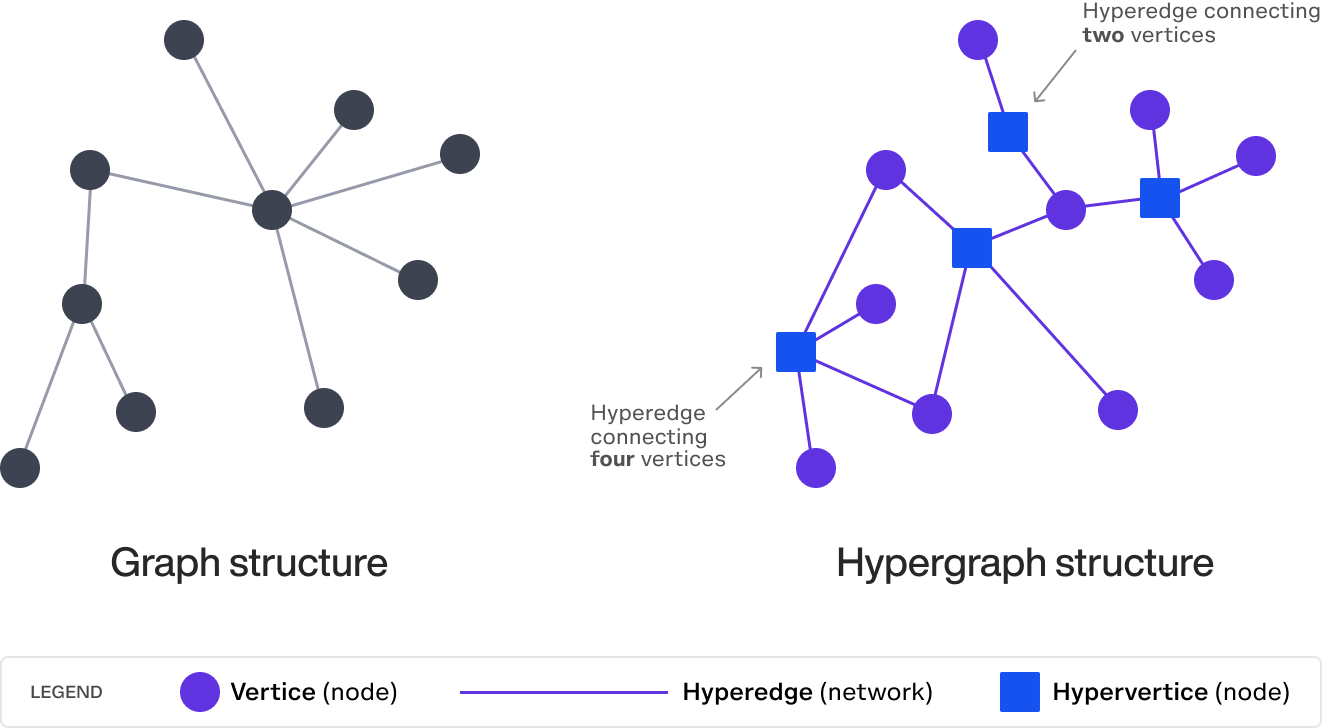
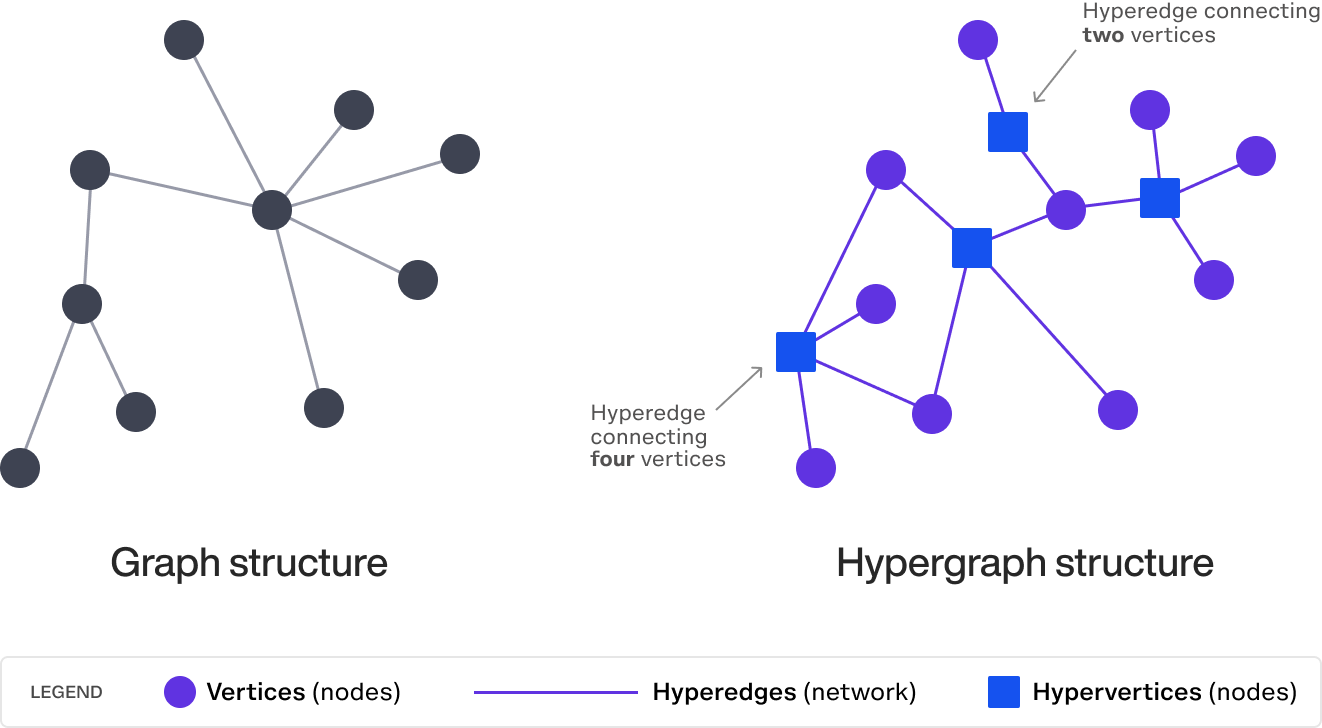
Update DAG Token page

Changed region(s): [[0.7443, 0.9066, 0.9924, 0.9973], [0.1241, 0.9066, 0.3101, 0.9973], [0.4962, 0.9368, 0.7133, 0.967]]

diff --git a/learn/advanced-concepts/03-DAG-Token.md b/learn/advanced-concepts/03-DAG-Token.md
@@ -11,33 +11,33 @@ DAG Layer 1 (L1) is a special case metagraph that validates DAG currency transac
 
 The DAG L1 network is a special case metagraph that validates transactions, runs them through parallel rounds of consensus, and processes them into blocks that are then submitted to the Global L0 network for inclusion in a Global Snapshot. DAG is the native currency of the network.
 
-**What is Constellation's $DAG Token?**
+### What is $DAG ?
 
 Constellation’s [$DAG coin](https://constellationnetwork.io/dag-token) is a next-generation cryptocurrency platform built on a Directed Acyclic Graph (DAG) structure. This hypergraph-based protocol enables Constellation to create a trustless, decentralized network of nodes that share data in real time — without the need for mining or other energy-intensive processes. Since its launch in late 2018, the coin has earned rave reviews from blockchain developers and crypto users alike — and its $DAG token is quickly becoming one of the most sought-after assets in the industry.
 
 $DAG works on an exclusive dApp, binding all components of the Hypergraph for enhanced scalability and feeless peer-to-peer transactions. Transactions are validated by node operators and its reward layer maintains the network with millions of monthly transactions. $DAG's microservice framework allows for advanced data connections to be made in a secure manner.
 
-## **Technology Behind the Coin: A Look Into the Hypergraph-based Protocol That Drives the Coin.**
+## Technology Behind the Coin
 
 At its core, Constellation’s Directed Acyclic Graph Structure (DAG) structure uses nodes to store data and validate transactions. This structure allows for significantly faster processing times than traditional proof-of-work models, as well as improved security due to its distributed architecture — meaning that no single node can control or manipulate the data stored on the chain. DAG-based networks are built to be more flexible and scalable than traditional blockchain networks, meaning they can handle larger amounts of data in shorter times. This is especially useful for applications such as digital identity management, asset tracking, supply chain management, and so on. Furthermore, while many other coins suffer from a lack of scalability due to their consensus mechanisms, Constellation has addressed this issue head on by building its network with a focus on scalability.
 
-## **Who Uses $DAG?**
+## Who Uses $DAG?
 
 As opposed to traditional cryptocurrencies such as Bitcoin and Ethereum, Constellation's $DAG coin offers several benefits that can improve crypto transactions' efficiency and security. The architecture of the system is ideal for:
 
-### **Token Purchasers and Holders:**
+### Token Purchasers and Holders
 
 Individuals that have purchased $DAG, are speculating, trading, or sending $DAG between their wallets, using it as a peer-to-peer currency.
 
-### **Node Validators**
+### Node Validators
 
 These individuals manage nodes and receive $DAG as a reward for participating in Hypergraph and consensus. Consensus is the programmatic means to govern and optimize the network with speed and security. The collection of these nodes is distributed, and forms the Hypergraph.
 
-### **dApp Businesses**
+### dApp Businesses
 
 With Constellation's HGTP protocol, individuals and organizations can create immutable, automated and programmatic businesses and tokens with the Metagraph Token Standard.
 
-## **The Tokenization of Data**
+## The Tokenization of Data
 
 A [$DAG token](https://medium.com/constellationlabs/dag-defined-52cb5c8fc441) represents network bandwidth, enabling transactions over the rate limit as well as the monetization of data streams. $DAG users become "datapreneurs" and can buy and sell data as they see fit.
 
@@ -49,19 +49,19 @@ Within Constellation's network, the $DAG token plays a few other roles:
 
 The tokenization of data could one day allow data packages to be traded and sold like commodities.
 
-## **The mission of $DAG Coin: Unlocking the Power of Distributed Ledger Technology**
+## The mission of $DAG
 
 By leveraging a unique combination of nodes and rewards, $DAG wallet users can unlock the power of the decentralized network and reap the benefits of this cutting-edge technology. The more dApps that launch on the network, the more utility the $DAG token will have, and the more scarce $DAG will become. By holding $DAG, you can participate in the [generative economics of the network](https://www.youtube.com/watch?v=wGfMsrskf3A) and support increased bandwidth in various ways.
 
-### **Validate Data**
+### Validate Data
 
 Stake $DAG to run a node on the Hypergraph network to validate data and transactions and receive validator rewards of $DAG.
 
-### **Secure Network Utility**
+### Secure Network Utility
 
 Staking $DAG on [Lattice](https://constellationnetwork.io/lattice) (powered by Constellation’s HGTP) secures network utility and enables cross-chain liquidity between other ecosystems.
 
-### **Provide Liquidity**
+### Provide Liquidity
 
 Provide liquidity and sufficient bandwidth for other L0 projects running dApps on the network, such as Alkimi Exchange, the first decentralized ad exchange.
 

diff --git a/learn/advanced-concepts/02-DAG-structure.md b/learn/advanced-concepts/02-DAG-structure.md
@@ -1,7 +1,7 @@
 ---
 title: DAG Structure
 sidebar_label: DAG Structure
-hide_table_of_contents: false
+hide_table_of_contents: true
 ---
 <intro-end />
 
@@ -16,4 +16,4 @@ Each node can have more than one parent root which enables significantly more tr
 ![Network Structure](/img/learn/graph-vs-hypergraph.png)
 <br />
 
-Think of a Hypergraph as a graph that allows you to model group relations instead of only binary relations, enabling a graph to be constructed of other graphs. It’s a set of a sets that enables different graphs to be connected together by their relationships to form a greater graph structure. In this Hypergraph structure there is the notion of “Hyper-edges” and “Hyper-vertices” that connect the graphs together, with each hyperedge connecting an arbitrary number of hypervertices (instead of only two in a regular graph). This allows the Constellation Network to weave immutable state data originating from entirely different networks and systems together into one ever-evolving data structure. The Hypergraph can be used to compose complex decentralized application logic, such as multi-network API calls and cross-network exchange of tokenized assets.
+Think of a Hypergraph as a graph that allows you to model group relations instead of only binary relations, enabling a graph to be constructed of other graphs. It’s a set of a sets that enables different graphs to be connected together by their relationships to form a greater graph structure. In this Hypergraph structure there is the notion of “Hyperedges” and “Hypervertices” that connect the graphs together, with each hyperedge connecting an arbitrary number of hypervertices (instead of only two in a regular graph). This allows the Constellation Network to weave immutable state data originating from entirely different networks and systems together into one ever-evolving data structure. The Hypergraph can be used to compose complex decentralized application logic, such as multi-network API calls and cross-network exchange of tokenized assets.
